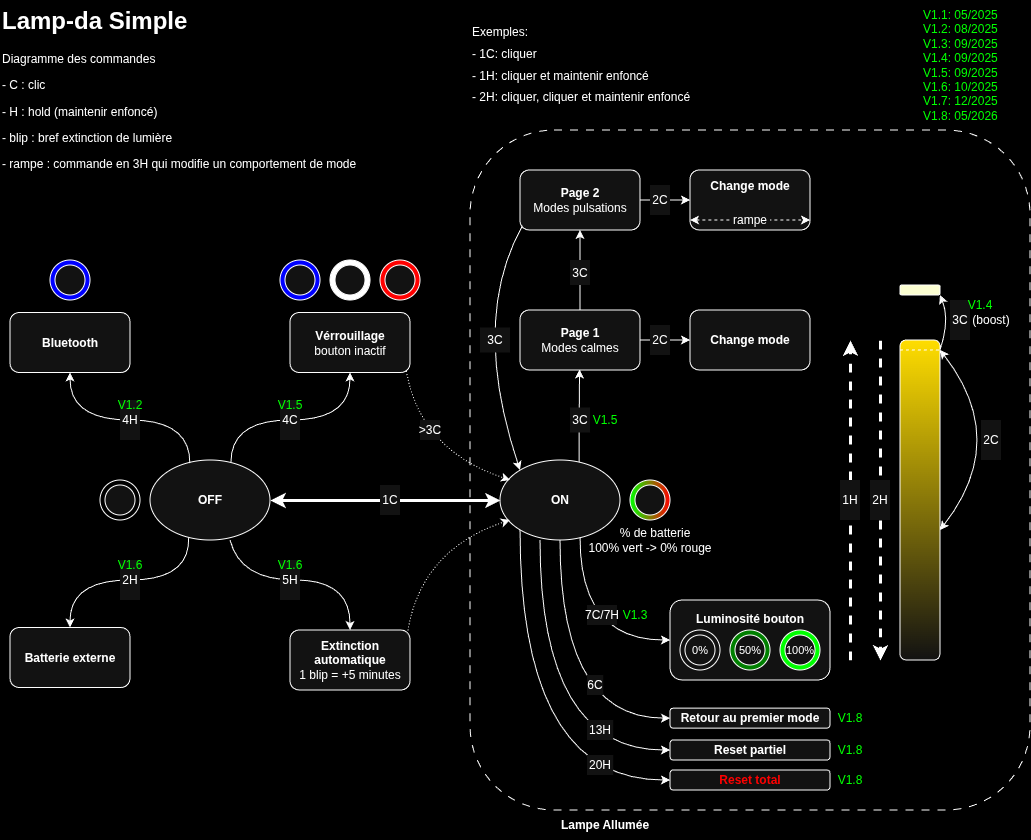
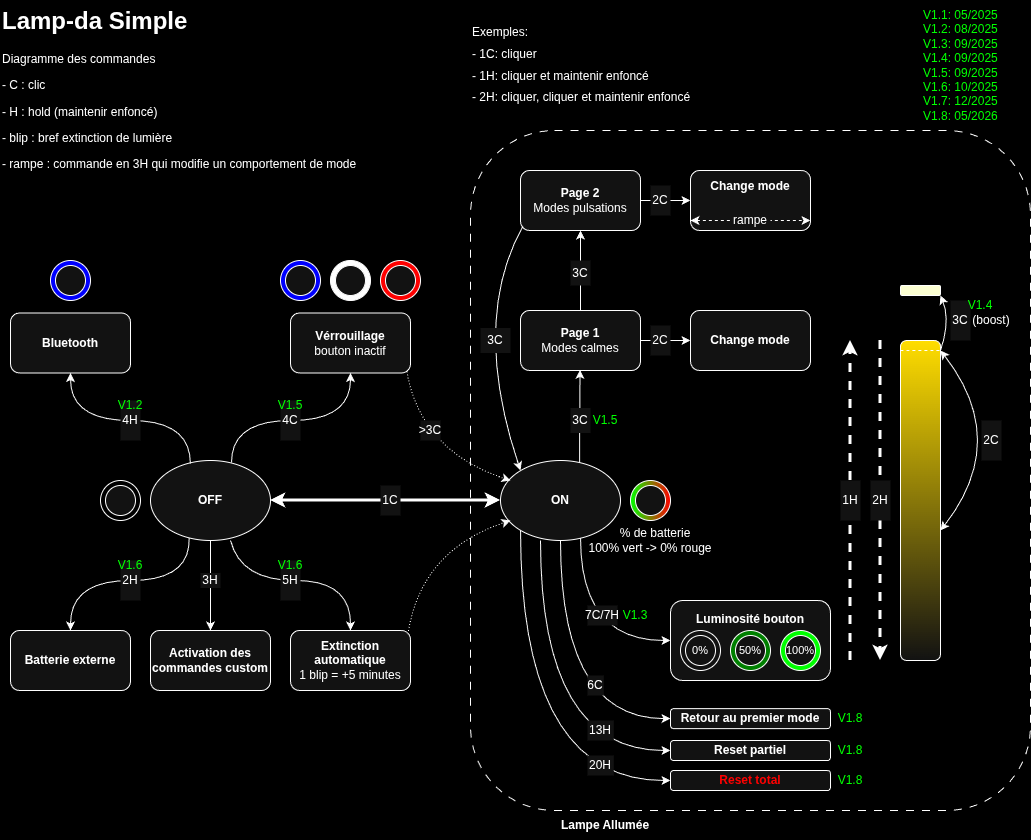
Add documentation for custom user modes

diff --git a/docs/WritingModes.md b/docs/WritingModes.md
@@ -223,6 +223,15 @@ our new `modes::examples::IntroMode` and nothing else. We are then able to pass
 a list to the manager of all the groups we want to include in our
 configuration, here our `IntroGroup` that only includes `IntroMode`.
 
+## Custom mode commands
+
+Some modes can enable custom commands, using the `hasButtonCustomUI` flag.
+Enabling this flag will make the mode able to execute the `custom_click` and `custom_hold`, wich will respectively handle clicks and hold events.
+
+Those functions can handle button clicks and hold, and return `true` when a command is handled by this mode to skip standard click behavior.
+
+The custom user mode handling is enabled by a start command (3H), and disabled by turning the lamp off, with a 5C command.
+The 5C command to turn of in custom user modes cannot be replaced by a custom user command.
 
 ## Hidden groups
 
